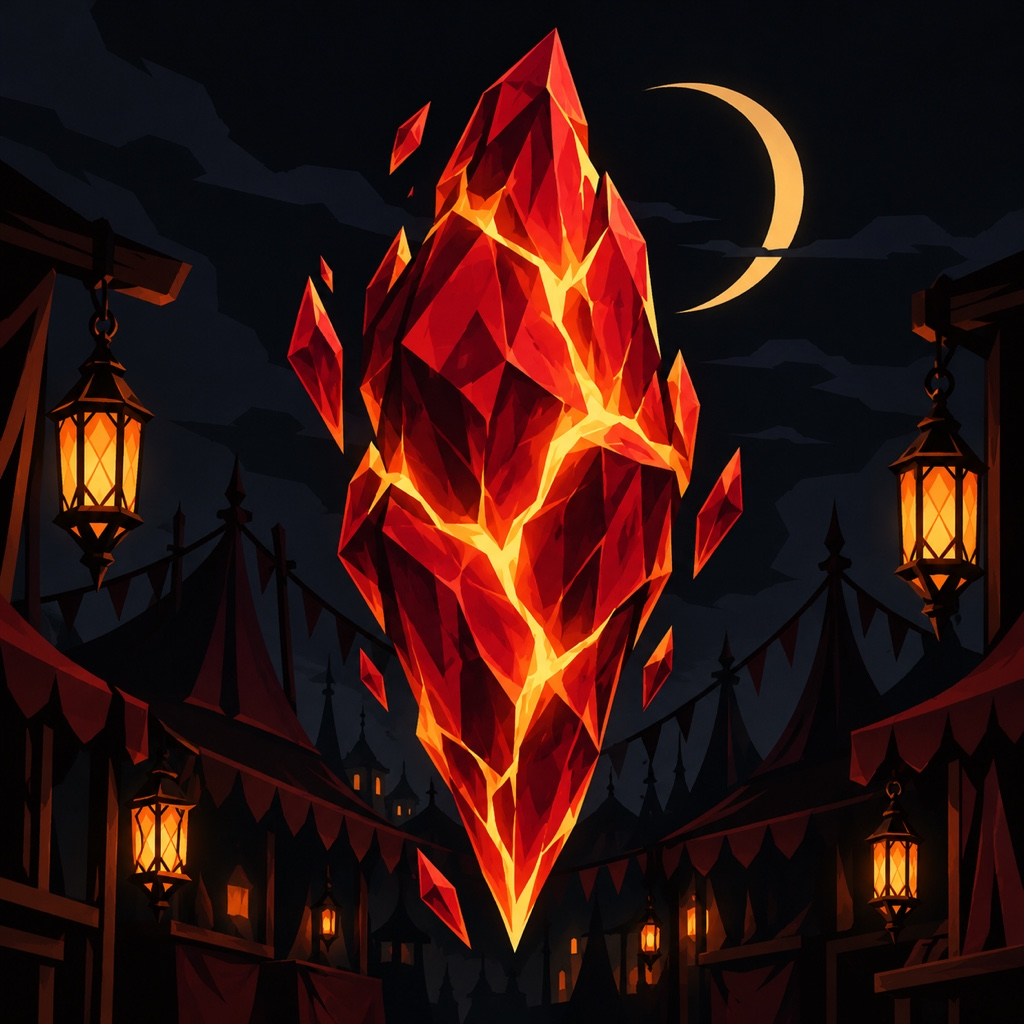
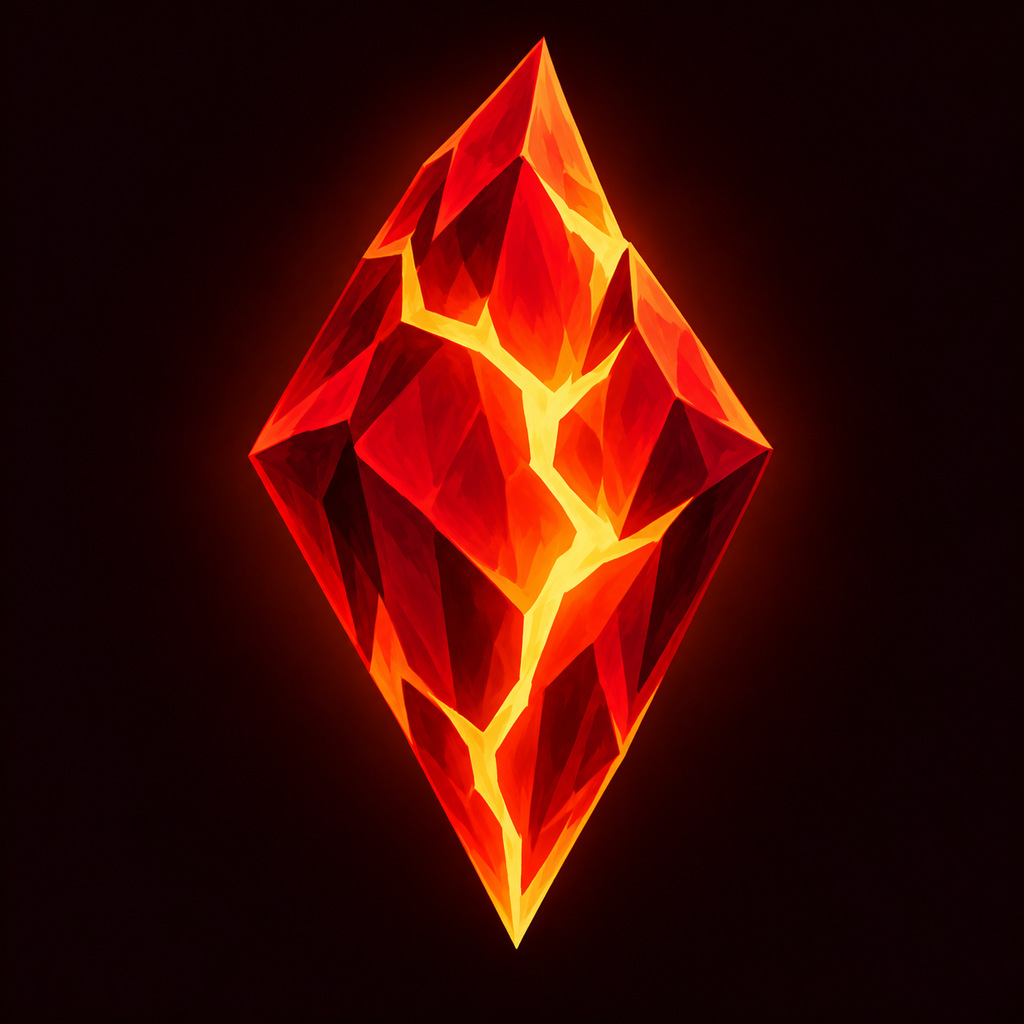
Простые RPG-иконки способностей и аватар бота

diff --git a/apps/mini-app/packages/client/vite.config.ts b/apps/mini-app/packages/client/vite.config.ts
@@ -10,9 +10,11 @@ const basePath = process.env.BASE_PATH ?? '/';
 
 const portraitDir = new URL('./public/assets/portraits/', import.meta.url);
 const portraits = Object.fromEntries(readdirSync(portraitDir).filter(f => f.endsWith('.jpg')).map(f => [f.slice(0, -4), createHash('sha256').update(readFileSync(new URL(f, portraitDir))).digest('hex').slice(0, 12)]));
+const abilityDir = new URL('./public/assets/abilities/', import.meta.url);
+const abilities = Object.fromEntries(readdirSync(abilityDir).filter(f => f.endsWith('.webp')).map(f => [f.slice(0, -5), createHash('sha256').update(readFileSync(new URL(f, abilityDir))).digest('hex').slice(0, 12)]));
 
 export default defineConfig({
-  define: { __PORTRAIT_REVISIONS__: JSON.stringify(portraits) },
+  define: { __PORTRAIT_REVISIONS__: JSON.stringify(portraits), __ABILITY_REVISIONS__: JSON.stringify(abilities) },
   base: basePath,
   plugins: [preact()],
   server: {

diff --git a/apps/mini-app/packages/client/src/components/AbilityIdentity.tsx b/apps/mini-app/packages/client/src/components/AbilityIdentity.tsx
@@ -7,10 +7,12 @@ import { portraitPreview } from './PortraitViewer';
 import { BASE } from '../base';
 import './ability-identity.css';
 
+declare const __ABILITY_REVISIONS__: Record<string, string>;
+
 /** Основной состав имеет собственные иллюстрации даров; дополнение использует портрет роли. */
 export function abilityImageUrl(roleKey: string): string {
   return /^o(?:[1-9]|1[0-7])$/.test(roleKey)
-    ? `${BASE}assets/abilities/${roleKey}.webp`
+    ? `${BASE}assets/abilities/${roleKey}.webp?v=${__ABILITY_REVISIONS__[roleKey]}`
     : portraitUrl(roleKey);
 }
 

diff --git a/docs/design/mini-app-ui-audit.md b/docs/design/mini-app-ui-audit.md
@@ -100,3 +100,11 @@ pnpm e2e
 С обычной полосой прокрутки браузера длинная история сужала доступную ширину страницы, а короткая застава возвращала её обратно. Центрированное меню смещалось на половину ширины полосы: в проверке — на 7,5 px. На корневом элементе задан `scrollbar-gutter: stable`, поэтому доступная ширина остаётся одинаковой, в том числе при временном запрете прокрутки в просмотре портрета или способности.
 
 Браузерный тест воспроизвёл ошибку до исправления и сравнивает положение панели и всех шести кнопок после перехода «Застава → Персонаж → Застава», открытия и закрытия изображения. В сюжетном прогоне включена обычная полоса прокрутки: стандартный режим headless Chromium скрывал её и пропускал эту ошибку.
+
+## Простые иконки способностей — 1 ноября 2026
+
+Все 17 изображений основной игры заменены на RPG-иконки с крупным символом и тёмным контрастным фоном. Сцены, обстановка и мелкий декор убраны. Проверены миниатюры 32 и 60 px, а также открытие, увеличение и закрытие каждого изображения в карточке героя. Единый `AbilityArt` использует новую картинку и в мастерской, и в списках действий. Формат — WebP 512×512, весь набор около 370 КиБ.
+
+Аватар бота упрощён до одного красного осколка с золотой трещиной; проверена круглая обрезка в размерах 40 и 72 px. Файл: [bot-avatar.jpg](assets/bot-avatar.jpg). Точные промпты и пути всех изображений: [ability-art-rpg-prompts.json](ability-art-rpg-prompts.json). Использован встроенный image_gen; прежние промпты сохранены как архив.
+
+Адреса иконок получают версию по содержимому файла, как адреса портретов: недельный кэш браузера не оставляет старые иллюстрации после обновления приложения. Пройдены 90 клиентских тестов, typecheck, production build, проверка стабильности меню и полный браузерный сценарий для 17 героев.

diff --git a/docs/requirements.md b/docs/requirements.md
@@ -102,6 +102,7 @@
 - Подготовка управляющего знака объясняется через действия с Фокусом, именем и записанным приказом; основной путь использует имя героя. Дополнительные варианты и условия срыва вынесены в справку.
 - Общее введение доступно в таверне после объявлений. Ведущему нужна краткая процедура осмотра: уточнить действие, описать находку, подтвердить только фактически полученное знание.
 - Уточнение 1 ноября: в нижнем меню нужны красивые иллюстрации вместо мелких шрифтовых символов. Названия разделов остаются видимыми.
+- Иллюстрации способностей и аватар Telegram-бота должны быть простыми и узнаваемыми в маленьком размере, как RPG-иконки: крупный основной символ, контрастный фон, минимум деталей.
 
 
 ## Непрерывная ярмарка — согласовано 1 ноября 2026
